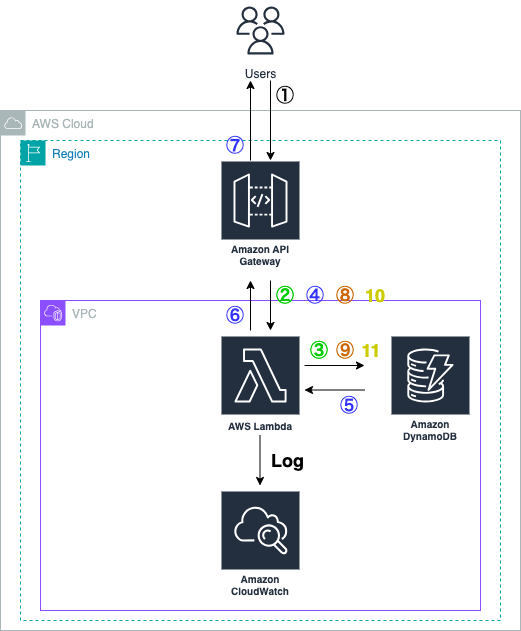
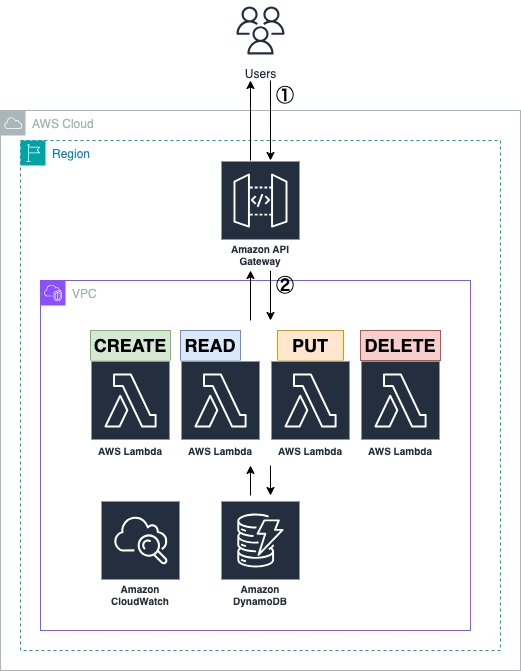
add:architecture image

diff --git a/README.md b/README.md
@@ -77,18 +77,25 @@
 
 ## func 9 (python)
 
-![architecture_9](https://github.com/mzunohkaru/AWS-Sample-Lambda-API/assets/99012157/1b18bad7-8174-49f1-9d4b-2f86b4b5699f)
+![architecture_9](https://github.com/mzunohkaru/AWS-Sample-Lambda-API/assets/99012157/a7fc7ded-4a6a-464c-baef-395aa3e233dd)
 
 ① POST・GET・PUT・DELETEメソッドでAPIを叩く
-② POST Lambda関数を実行
-③ DynamoDBへパスパラメータから受け取ったデータを保存する
-④ GET Lambda関数を実行
-⑤ パスパラメータにidがある場合は、idと一致するデータを返す。パスパラメータにidがない場合は、すべてのデータを返す。
-⑥,⑦ DynamoDBから取得したデータをJSON形式で返す
-⑧ PUT Lambda関数を実行
-⑨ パスパラメータから受け取ったidと一致するDynamoDBのデータを更新する
-10 DELETE Lambda関数を実行
-11 パスパラメータから受け取ったidと一致するDynamoDBのデータを削除する
+②-CREATE DynamoDBにデータを挿入
+②-READ DynamoDBからデータ (全データ＆パスパラメータのIDと一致するデータ) を取得
+②-PUT  DynamoDBのデータを更新
+②-DELETE DynamoDBのデータを削除
+
+
+## func 3,4,5,6,7 (nodejs)
+
+![architecture_3,4,5,6,7](https://github.com/mzunohkaru/AWS-Sample-Lambda-API/assets/99012157/3b8c52fa-ef8a-4214-b1da-d2f9b55e5012)
+
+① APIを叩く
+② 認証トークンを検証
+CREATE DynamoDBにデータを挿入
+READ DynamoDBからデータ (全データ＆パスパラメータのIDと一致するデータ) を取得
+PUT  DynamoDBのデータを更新
+DELETE DynamoDBのデータを削除
 
 
 ## 構成図イメージ作成ツール
